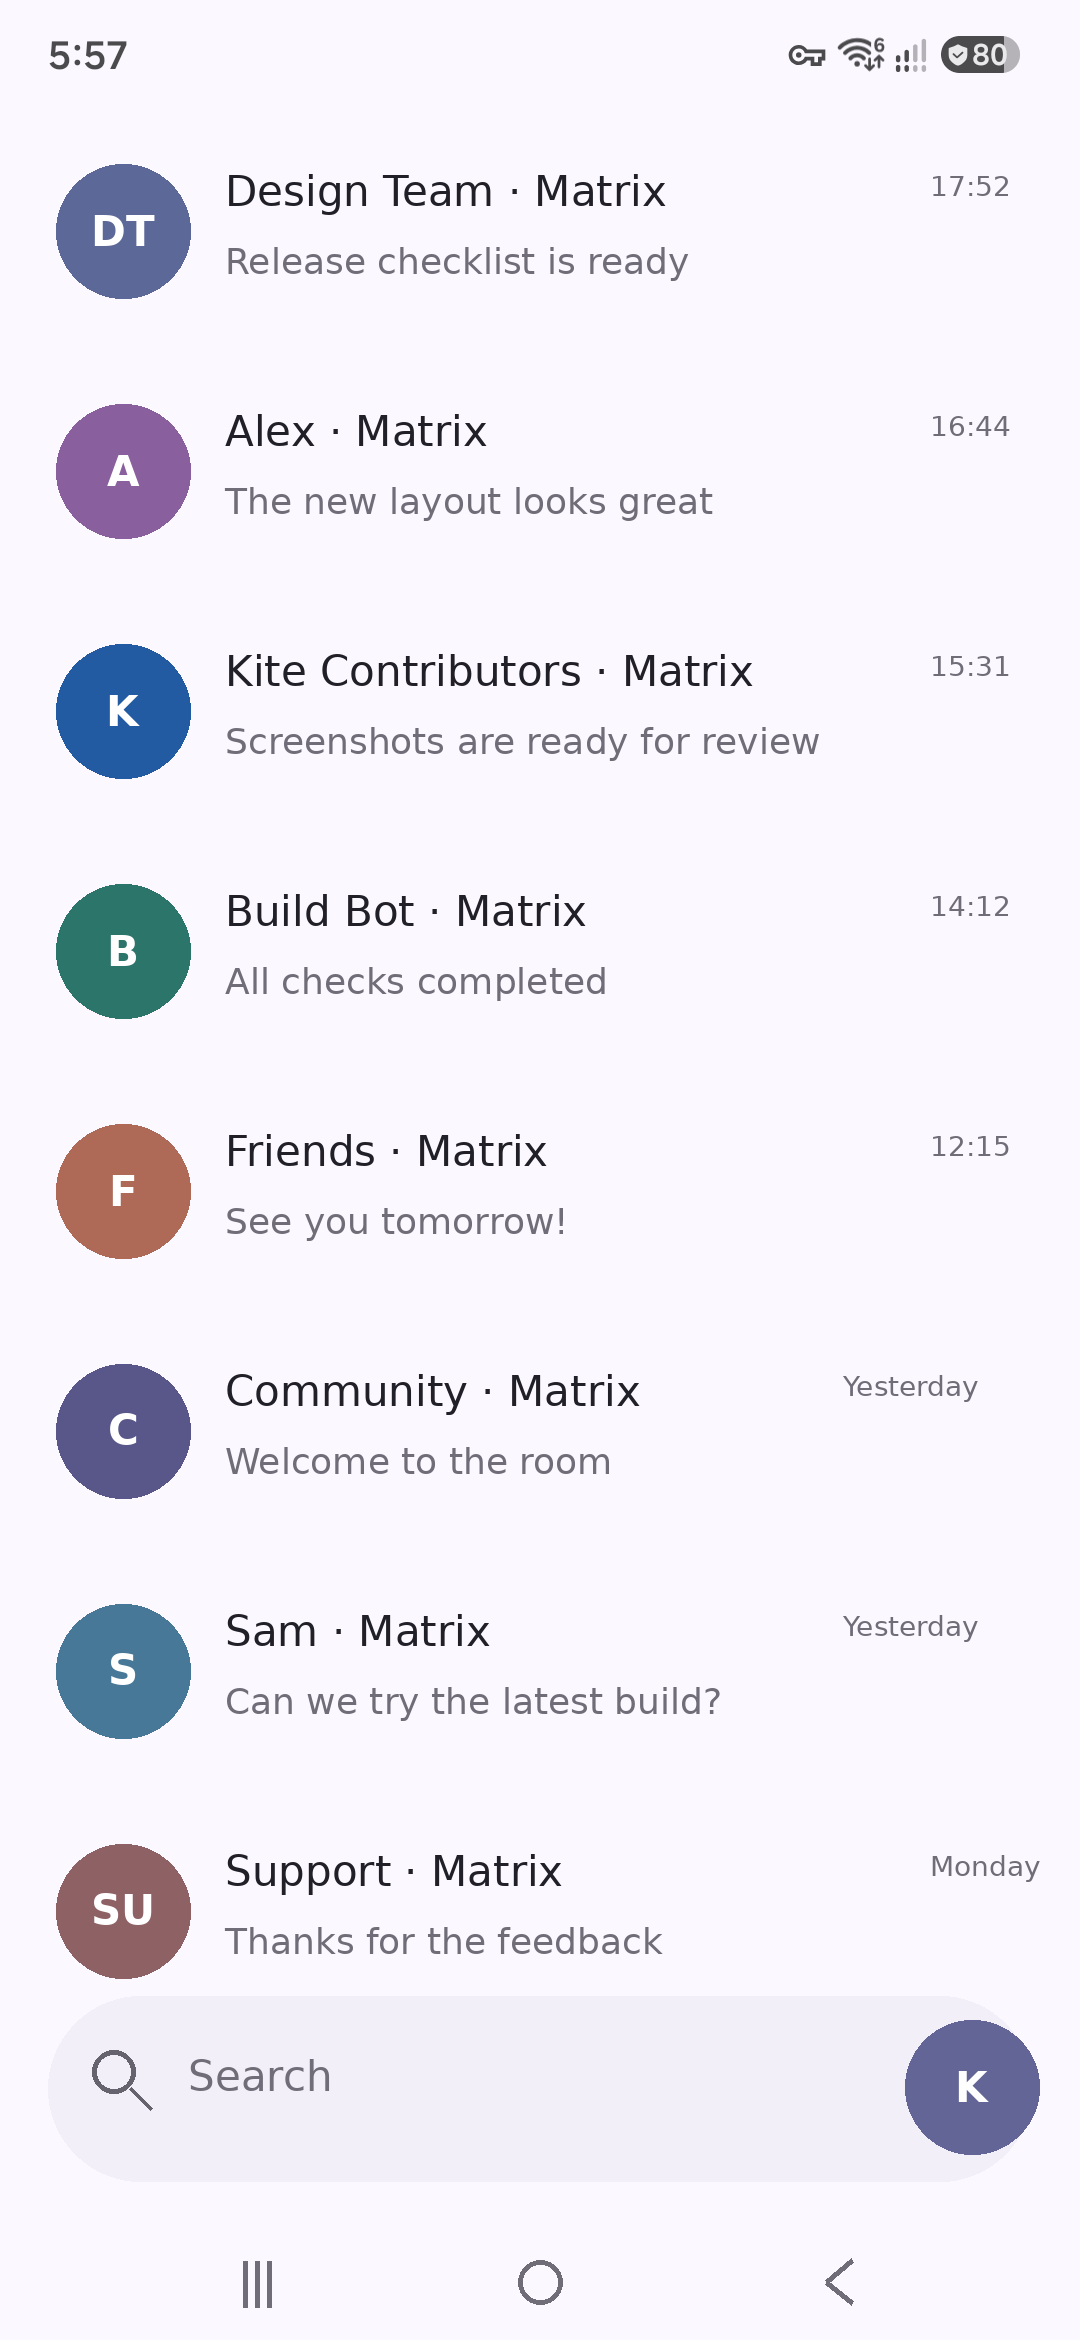
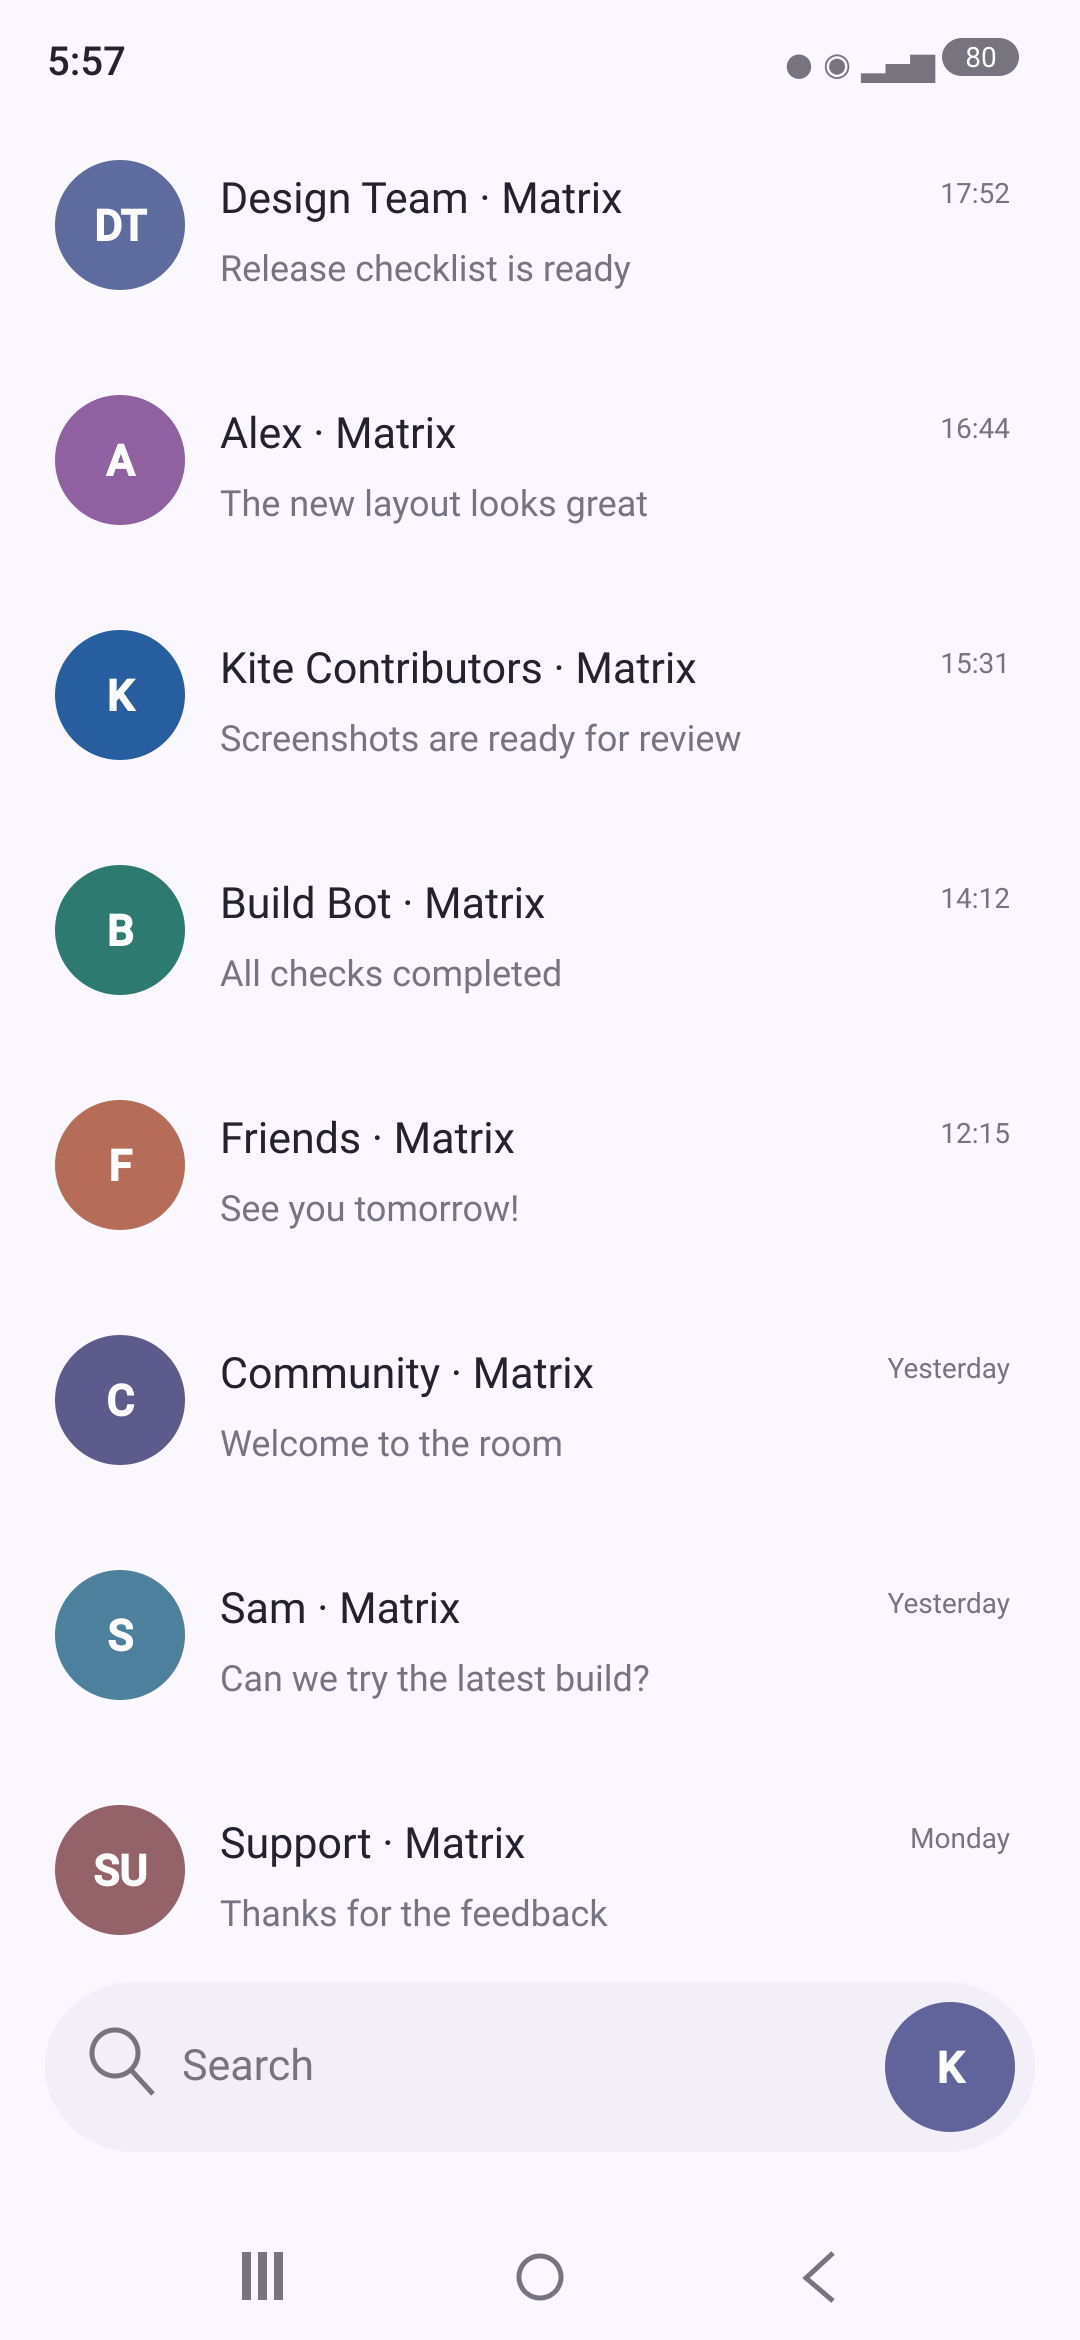
ci: verify Kite main pushes and regenerate release screenshots

diff --git a/scripts/generate_screenshots.py b/scripts/generate_screenshots.py
@@ -1,0 +1,105 @@
+#!/usr/bin/env python3
+"""Render anonymized Kite UI reference screenshots for README and Fastlane."""
+
+from html import escape
+from pathlib import Path
+import subprocess
+
+ROOT = Path(__file__).resolve().parents[1]
+DEST = ROOT / "metadata/en-US/images/phoneScreenshots"
+BG, FG, MUTED, SURFACE, PURPLE = "#faf7ff", "#24222a", "#77747e", "#f3eff9", "#e5d6ff"
+
+
+def text(x, y, value, size=44, color=FG, weight=400, anchor="start"):
+    return (f'<text x="{x}" y="{y}" font-size="{size}" fill="{color}" '
+            f'font-weight="{weight}" text-anchor="{anchor}">{escape(value)}</text>')
+
+
+def rect(x, y, width, height, color, radius=0):
+    return f'<rect x="{x}" y="{y}" width="{width}" height="{height}" rx="{radius}" fill="{color}"/>'
+
+
+def circle(x, y, radius, color):
+    return f'<circle cx="{x}" cy="{y}" r="{radius}" fill="{color}"/>'
+
+
+def base():
+    elements = [rect(0, 0, 1080, 2340, BG), text(47, 75, "5:57", 40, weight=500)]
+    # Neutral, synthetic status/navigation bars; no personal device state.
+    elements += [text(785, 75, "●  ◉  ▂▄▆", 32, MUTED), rect(942, 38, 77, 38, MUTED, 20),
+                 text(981, 67, "80", 28, "#ffffff", anchor="middle"),
+                 rect(242, 2252, 9, 48, MUTED), rect(258, 2252, 9, 48, MUTED),
+                 rect(274, 2252, 9, 48, MUTED),
+                 f'<circle cx="540" cy="2277" r="21" fill="none" stroke="{MUTED}" stroke-width="5"/>',
+                 f'<path d="M833 2253 L806 2278 L833 2301" fill="none" stroke="{MUTED}" stroke-width="5"/>']
+    return elements
+
+
+def avatar(x, y, label, color, radius=65):
+    return [circle(x, y, radius, color), text(x, y + 16, label, 43, "#ffffff", 700, "middle")]
+
+
+def inbox():
+    elements = base()
+    rooms = [
+        ("DT", "#5d6b9f", "Design Team · Matrix", "Release checklist is ready", "17:52"),
+        ("A", "#9061a1", "Alex · Matrix", "The new layout looks great", "16:44"),
+        ("K", "#275e9f", "Kite Contributors · Matrix", "Screenshots are ready for review", "15:31"),
+        ("B", "#2d7b70", "Build Bot · Matrix", "All checks completed", "14:12"),
+        ("F", "#b56d59", "Friends · Matrix", "See you tomorrow!", "12:15"),
+        ("C", "#5c5b8c", "Community · Matrix", "Welcome to the room", "Yesterday"),
+        ("S", "#4c809d", "Sam · Matrix", "Can we try the latest build?", "Yesterday"),
+        ("SU", "#946369", "Support · Matrix", "Thanks for the feedback", "Monday"),
+    ]
+    for i, (initial, color, name, preview, time) in enumerate(rooms):
+        y = 225 + i * 235
+        elements += avatar(120, y, initial, color)
+        elements += [text(220, y - 12, name, 43), text(220, y + 56, preview, 36, MUTED),
+                     text(1010, y - 22, time, 28, MUTED, anchor="end")]
+    elements += [rect(45, 1982, 990, 170, SURFACE, 90),
+                 f'<circle cx="115" cy="2053" r="23" stroke="{MUTED}" stroke-width="5" fill="none"/>',
+                 f'<path d="M131 2070 L153 2094" stroke="{MUTED}" stroke-width="5"/>',
+                 text(182, 2080, "Search", 43, MUTED)]
+    elements += avatar(950, 2067, "K", "#61649a")
+    return elements
+
+
+def conversation():
+    elements = base()
+    elements += [f'<path d="M98 158 H59 L82 135 M59 158 L82 181" fill="none" stroke="{FG}" stroke-width="6"/>']
+    elements += avatar(204, 171, "A", "#9061a1")
+    elements += [text(295, 179, "Alex · Matrix", 45)]
+    messages = [
+        (32, 310, 823, 187, False, ["I pushed the latest build.", "Can you check it?"]),
+        (188, 560, 840, 186, True, ["Looks much faster now.", "The layout feels great."]),
+        (32, 805, 902, 186, False, ["Nice! We should share", "screenshots for the release."]),
+        (216, 1058, 812, 188, True, ["I will add those to the", "release notes."]),
+        (32, 1303, 860, 190, False, ["Thanks! It should be ready", "for testers soon."]),
+    ]
+    for x, y, width, height, outgoing, lines in messages:
+        elements += [rect(x, y, width, height, PURPLE if outgoing else SURFACE, 38)]
+        elements += [text(x + 34, y + 66, line, 43) for line in lines[:1]]
+        elements += [text(x + 34, y + 123, line, 43) for line in lines[1:]]
+    elements += [rect(45, 1982, 990, 168, SURFACE, 90),
+                 text(92, 2088, "+", 56, MUTED), text(205, 2083, "Message", 43, MUTED),
+                 f'<rect x="890" y="2031" width="54" height="62" rx="4" fill="none" stroke="{MUTED}" stroke-width="5"/>',
+                 f'<path d="M902 2080 L917 2060 L929 2075 L944 2050" fill="none" stroke="{MUTED}" stroke-width="4"/>']
+    return elements
+
+
+def write_png(name, elements):
+    svg = ('<svg xmlns="http://www.w3.org/2000/svg" width="1080" height="2340" '
+           'viewBox="0 0 1080 2340"><g font-family="Roboto, sans-serif">'
+           + "".join(elements) + "</g></svg>")
+    dest = DEST / name
+    dest.parent.mkdir(parents=True, exist_ok=True)
+    subprocess.run(["rsvg-convert", "--format", "png", "--output", str(dest)],
+                   input=svg, text=True, check=True)
+    if dest.stat().st_size < 10000:
+        raise RuntimeError(f"Screenshot appears empty: {dest}")
+    print(dest.relative_to(ROOT))
+
+
+if __name__ == "__main__":
+    write_png("1_en-US.png", inbox())
+    write_png("2_en-US.png", conversation())

diff --git a/README.md b/README.md
@@ -10,7 +10,7 @@ Kite is a fork of [SchildiChat Revenge](https://github.com/SchildiChat/schildi-r
 | --- | --- |
 | ![Kite inbox with example conversations](fastlane/metadata/android/en-US/images/phoneScreenshots/1_en-US.png) | ![Kite conversation with example messages](fastlane/metadata/android/en-US/images/phoneScreenshots/2_en-US.png) |
 
-Screenshots use anonymized example content, based on the current Android UI.
+Screenshots are illustrative, generated from anonymized sample content with `python3 scripts/generate_screenshots.py`; they are not live device captures.
 
 ## Features
 
